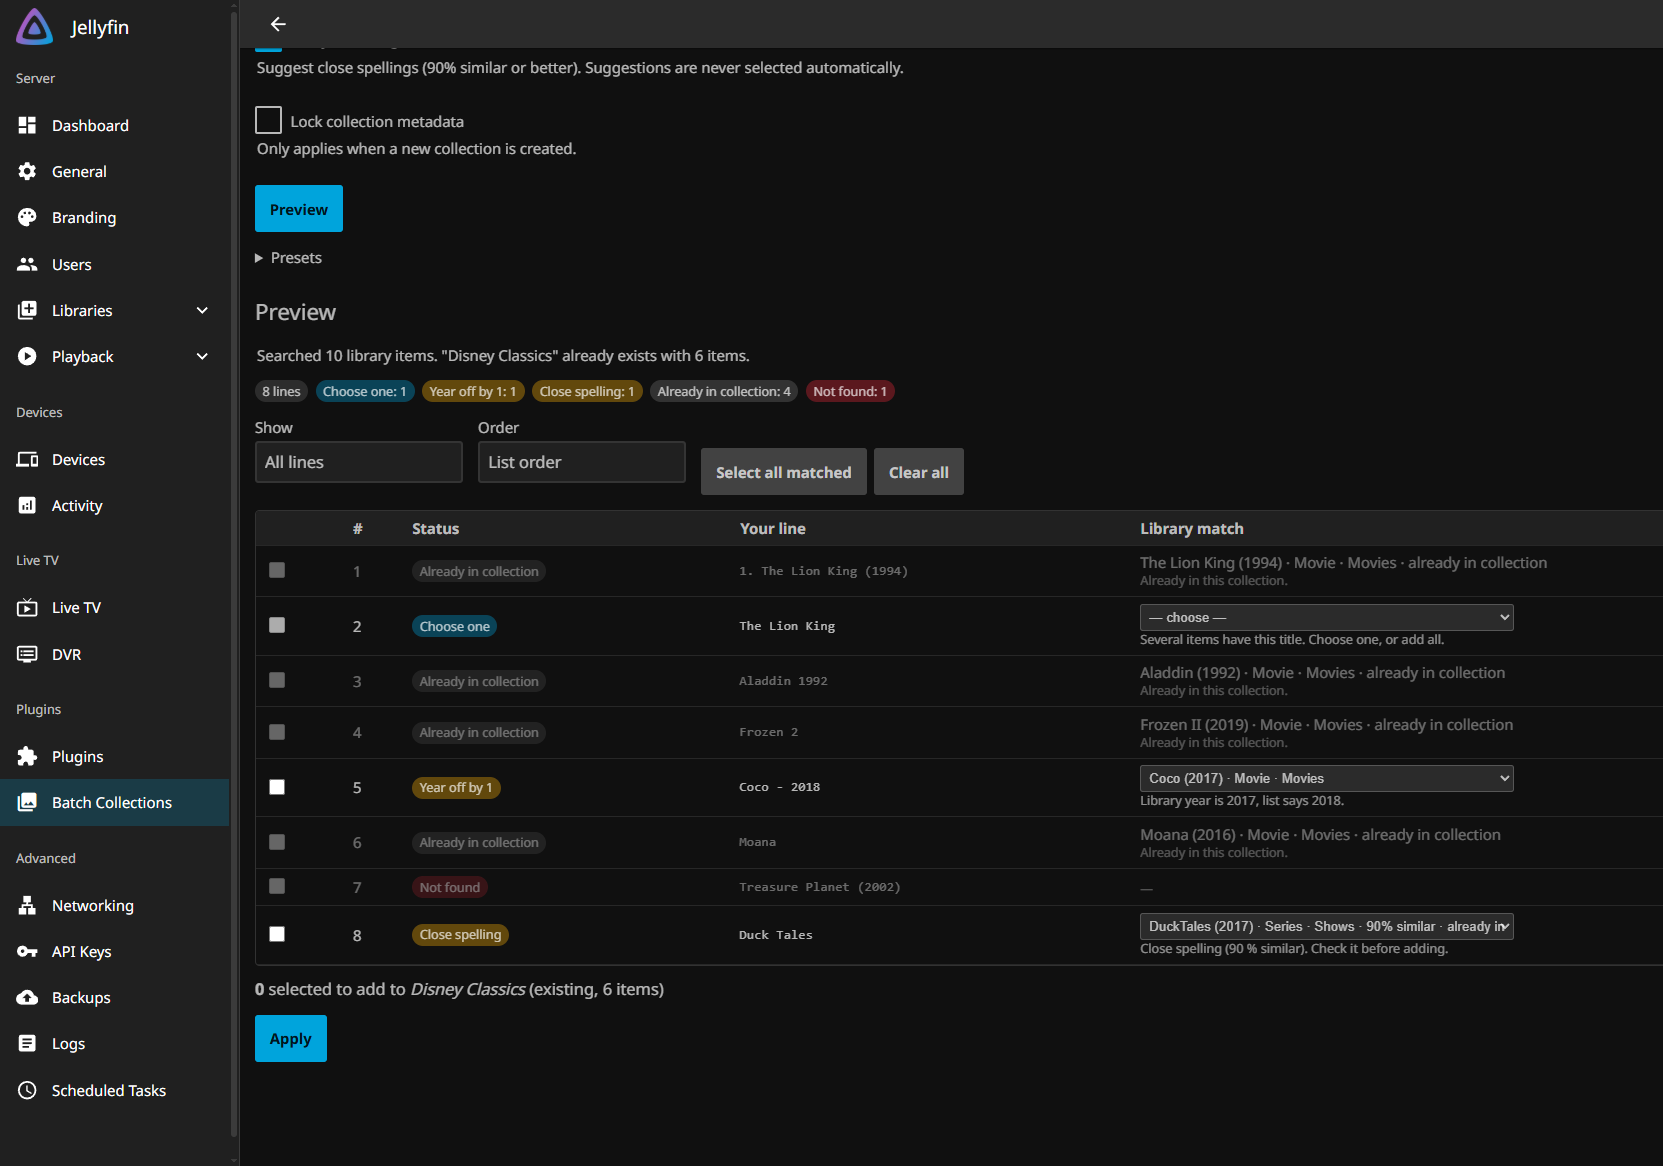
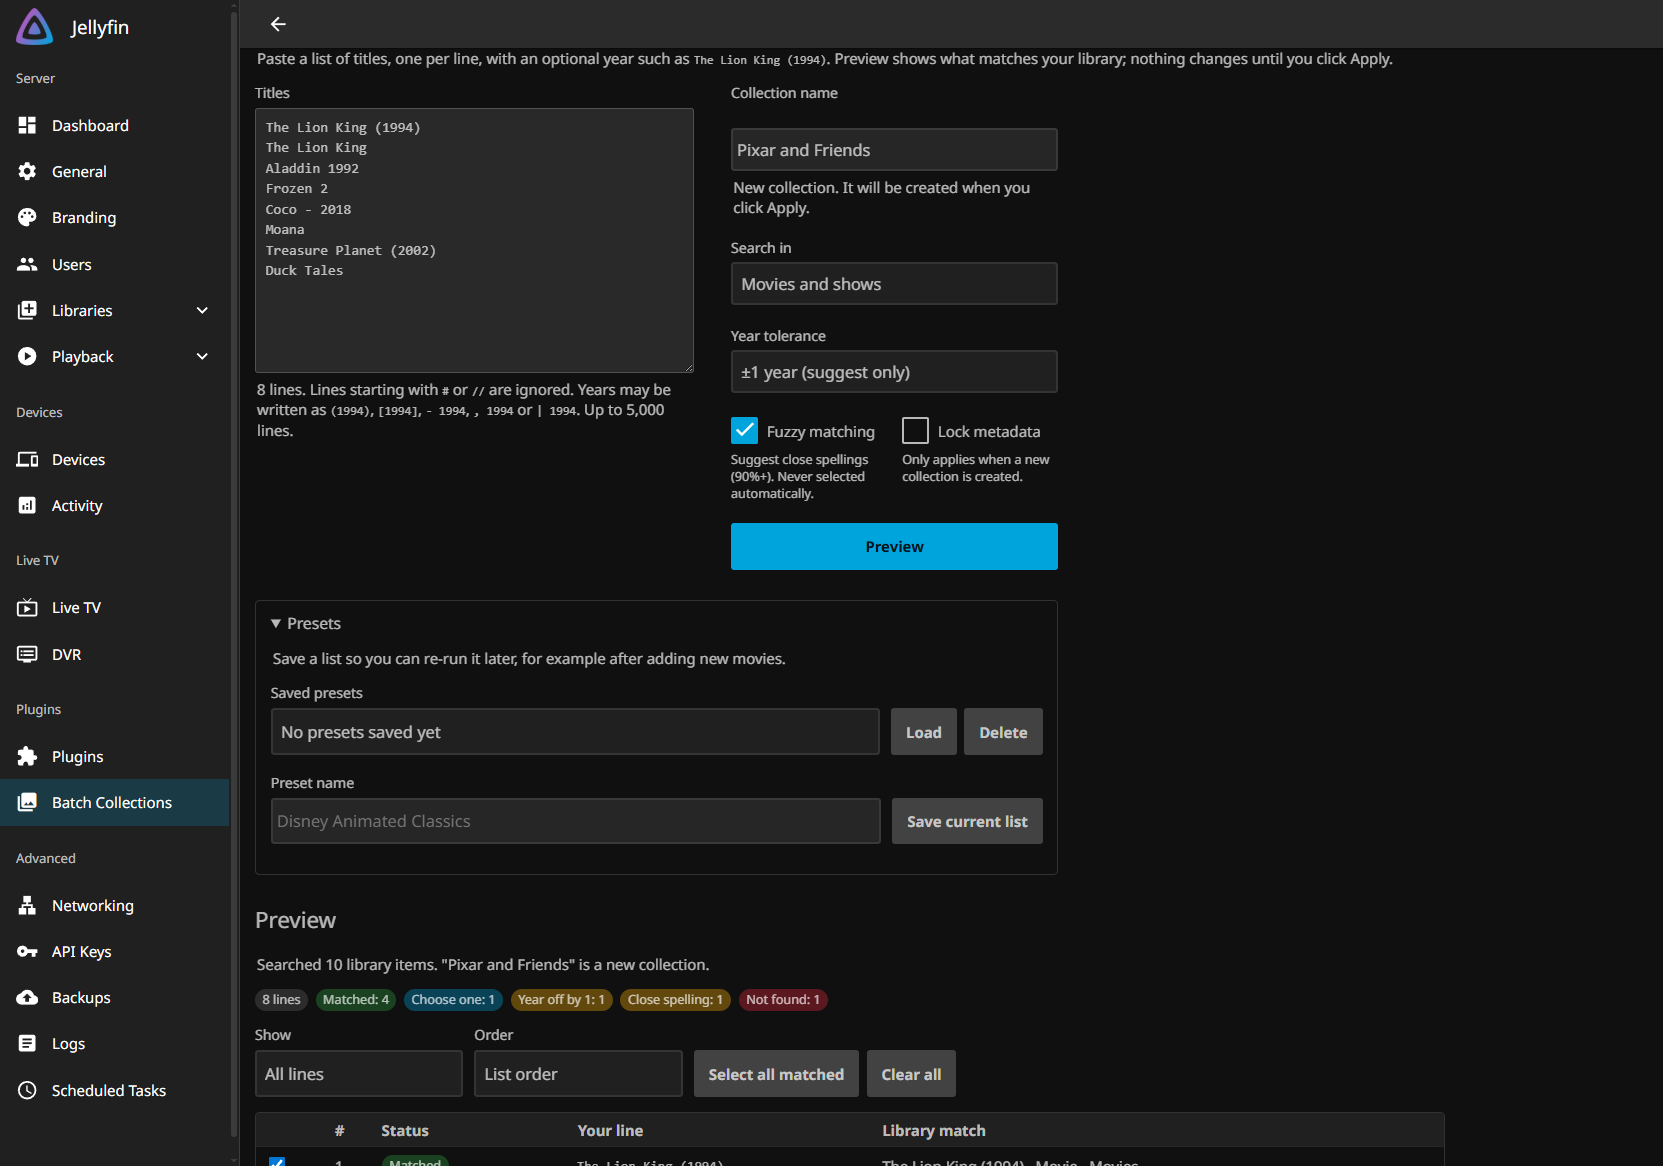
Batch Collections 1.0.1.0

diff --git a/CHANGELOG.md b/CHANGELOG.md
@@ -2,6 +2,13 @@
 
 All notable changes to this project are documented here. Versions use Jellyfin's four-part format.
 
+## 1.0.1.0
+
+- New two-column layout: the list on the left, settings and Preview on the right. It stacks into one column on narrow screens.
+- The Titles box now fills its column, and its label sits above it.
+- Preset rows and the results toolbar are lined up with their buttons.
+- Fix: applying or previewing again within a second or so of an Apply now correctly sees the items that were just added (and never creates a second collection with the same name).
+
 ## 1.0.0.0
 
 First release, for Jellyfin 12.2.
